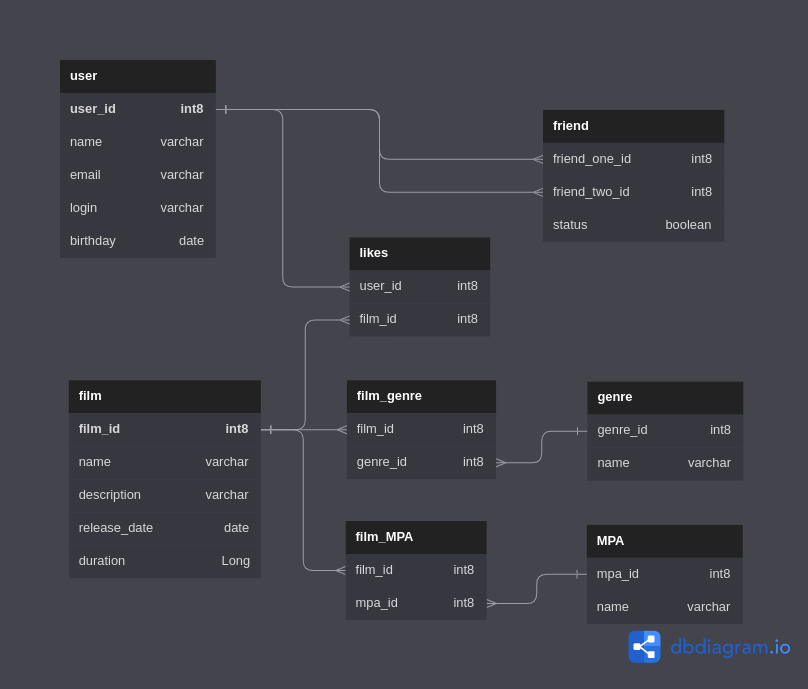
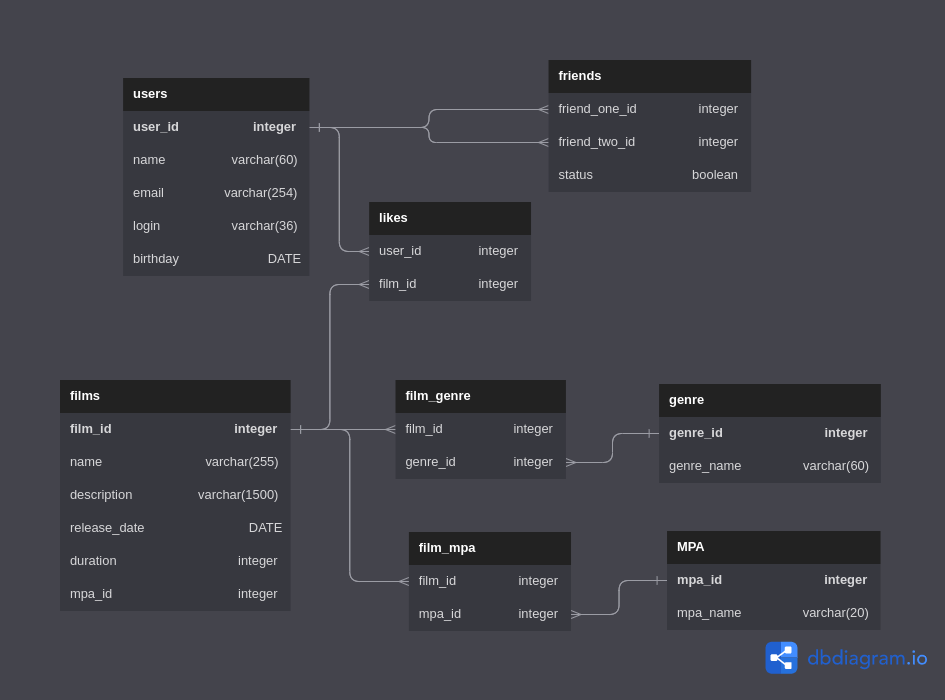
feat: readme

diff --git a/README.md b/README.md
@@ -1,6 +1,6 @@
 # java-filmorate
 
-<img src="./.readme_assets/diagramma_2.png" width="808">
+<img src="./.readme_assets/diagramma.png" width="808">
 
 ### Описание ER-диаграммы:
 
@@ -25,6 +25,10 @@
 ###### Таблица MPA
 - ***mpa_id*** - уникальный идентификатор рейтинга
 - ***name*** - название рейтинга
+
+###### Таблица film_mpa
+- ***film_id*** - идентификатор фильма
+- ***mpa_id*** - идентификатор рейтинга
 
 ###### Таблица genre
 - ***genre_id*** - уникальный идентификатор жанра
